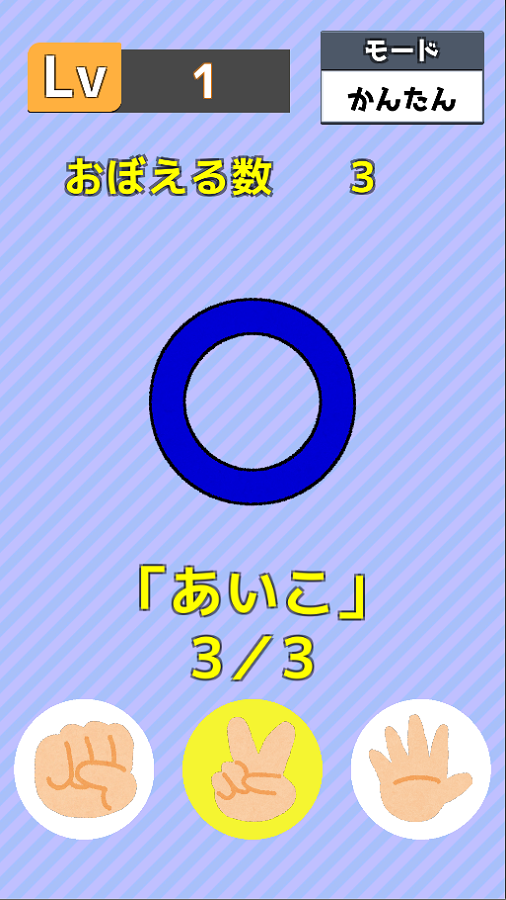
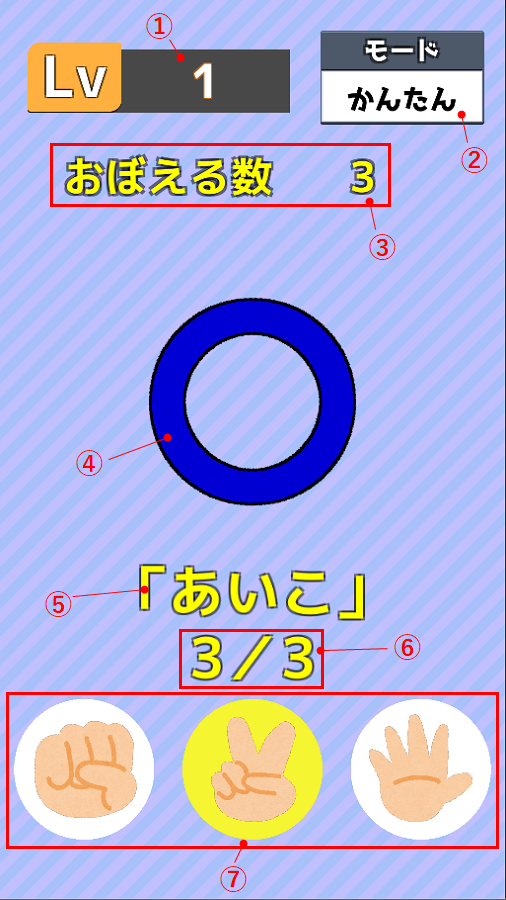
FlashRPC用のサポートページ更新

diff --git a/docs/FlashRPC/sprt.md b/docs/FlashRPC/sprt.md
@@ -28,21 +28,21 @@
 
 ### ゲーム画面
 
-- レベル：現在のゲームレベルを表示します。正解するごとに1つずつ上がります。
+1. レベル：現在のゲームレベルを表示します。正解するごとに1つずつ上がります。
 
-- モード：選択した難易度が表示されます。
+2. モード：選択した難易度が表示されます。
 
-- おぼえる数：画面に次々と表示される手の数を指します。レベルが5つ上がると、覚える数が1つ増えます。
+3. おぼえる数：画面に次々と表示される手の数を指します。レベルが5つ上がると、覚える数が1つ増えます。
 
-- 判定：プレイヤーの回答が合っていれば"○"、間違っていれば"×"を表示します。<br>
+4. 判定：プレイヤーの回答が合っていれば"○"、間違っていれば"×"を表示します。<br>
 &nbsp;&nbsp;&nbsp;&nbsp;&nbsp;&nbsp;&nbsp;&nbsp;&nbsp;&nbsp;"○"の場合、レベルが上がり次の問題に移ります。<br>
 &nbsp;&nbsp;&nbsp;&nbsp;&nbsp;&nbsp;&nbsp;&nbsp;&nbsp;&nbsp;"×"の場合、ゲームが終了してリザルト画面に移動します。
 
-- 回答条件：覚えた手に対し、回答する条件が表示されます。（「かつ」or「まける」or「あいこ」）
+5. 回答条件：覚えた手に対し、回答する条件が表示されます。（「かつ」or「まける」or「あいこ」）
 
-- 回答数：(左)回答した手の数、(右)表示された手の数を表します。
+6. 回答数：(左)回答した手の数、(右)表示された手の数を表します。
 
-- 回答ボタン：条件に合う手のボタンを押します。
+7. 回答ボタン：条件に合う手のボタンを押します。
 
 ### リザルト画面
 
